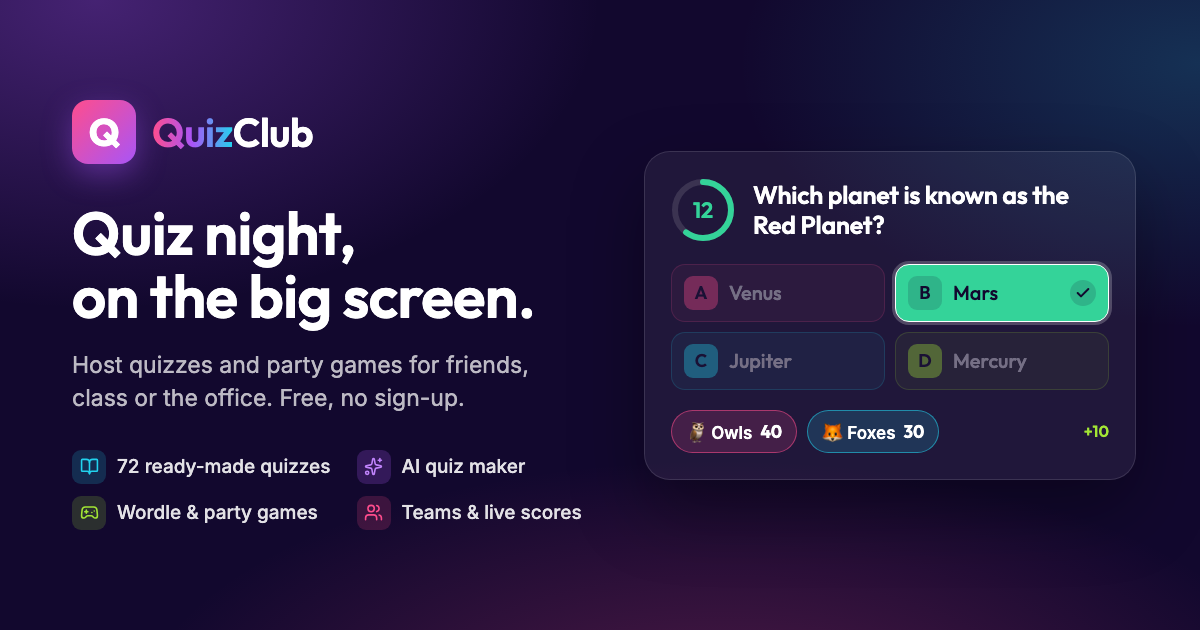
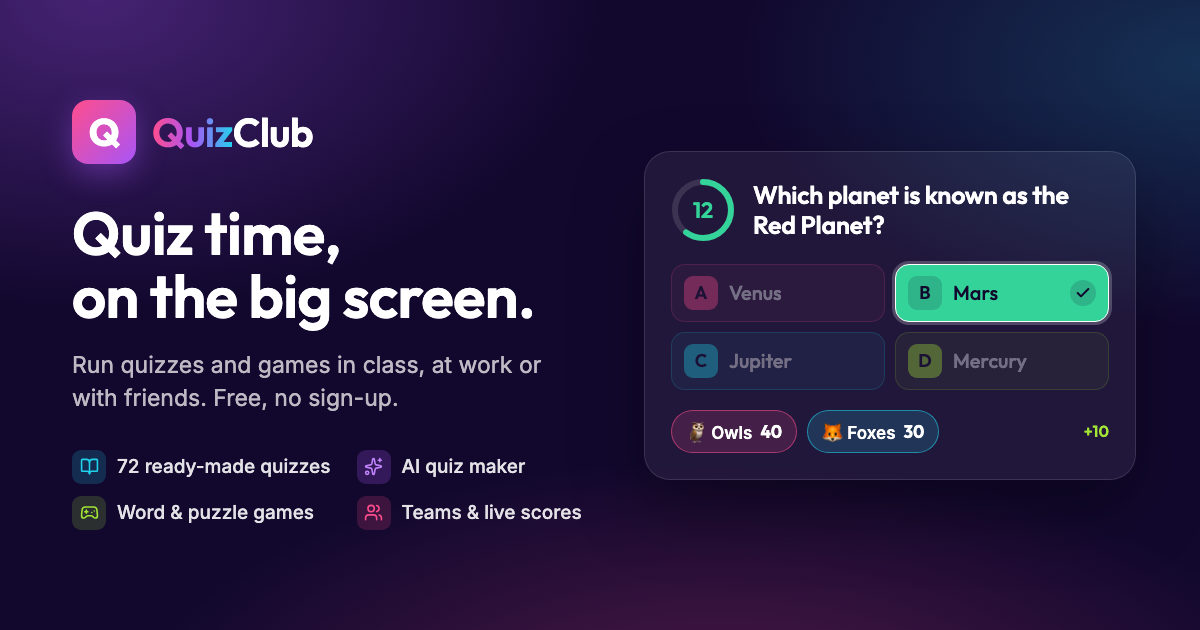
copy: "quiz time" instead of "quiz night", with classrooms first
The share card, page title, meta and manifest descriptions now read as
something for any time of day: "Quiz time, on the big screen." and "Run
quizzes and games in class, at work or with friends." The card's games
feature reads "Word & puzzle games".

Changed region(s): [[0.0617, 0.573, 0.4625, 0.6635], [0.1542, 0.3317, 0.3083, 0.4222], [0.1233, 0.7841, 0.2775, 0.8444]]

diff --git a/scripts/share-assets/card.html b/scripts/share-assets/card.html
@@ -53,12 +53,12 @@
 <body>
   <div class="left">
     <div class="brand"><div class="tile display">Q</div><div class="word display"><span class="grad">Quiz</span>Club</div></div>
-    <h1 class="display">Quiz night,<br />on the big screen.</h1>
-    <p class="sub">Host quizzes and party games for friends, class or the office. Free, no sign-up.</p>
+    <h1 class="display">Quiz time,<br />on the big screen.</h1>
+    <p class="sub">Run quizzes and games in class, at work or with friends. Free, no sign-up.</p>
     <div class="features">
       <div class="f"><span class="badge" style="background: color-mix(in srgb, var(--cyan) 18%, transparent); color: var(--cyan)"><svg viewBox="0 0 24 24"><path d="M12 7v14"/><path d="M3 18a1 1 0 0 1-1-1V4a1 1 0 0 1 1-1h5a4 4 0 0 1 4 4 4 4 0 0 1 4-4h5a1 1 0 0 1 1 1v13a1 1 0 0 1-1 1h-6a3 3 0 0 0-3 3 3 3 0 0 0-3-3z"/></svg></span>72 ready-made quizzes</div>
       <div class="f"><span class="badge" style="background: color-mix(in srgb, var(--purple) 22%, transparent); color: #c084fc"><svg viewBox="0 0 24 24"><path d="M11.017 2.814a1 1 0 0 1 1.966 0l1.051 5.558a2 2 0 0 0 1.594 1.594l5.558 1.051a1 1 0 0 1 0 1.966l-5.558 1.051a2 2 0 0 0-1.594 1.594l-1.051 5.558a1 1 0 0 1-1.966 0l-1.051-5.558a2 2 0 0 0-1.594-1.594l-5.558-1.051a1 1 0 0 1 0-1.966l5.558-1.051a2 2 0 0 0 1.594-1.594z"/><path d="M20 2v4"/><path d="M22 4h-4"/><circle cx="4" cy="20" r="2"/></svg></span>AI quiz maker</div>
-      <div class="f"><span class="badge" style="background: color-mix(in srgb, var(--lime) 18%, transparent); color: var(--lime)"><svg viewBox="0 0 24 24"><line x1="6" x2="10" y1="11" y2="11"/><line x1="8" x2="8" y1="9" y2="13"/><line x1="15" x2="15.01" y1="12" y2="12"/><line x1="18" x2="18.01" y1="10" y2="10"/><path d="M17.32 5H6.68a4 4 0 0 0-3.978 3.59c-.006.052-.01.101-.017.152C2.604 9.416 2 14.456 2 16a3 3 0 0 0 3 3c1 0 1.5-.5 2-1l1.414-1.414A2 2 0 0 1 9.828 16h4.344a2 2 0 0 1 1.414.586L17 18c.5.5 1 1 2 1a3 3 0 0 0 3-3c0-1.545-.604-6.584-.685-7.258-.007-.05-.011-.1-.017-.151A4 4 0 0 0 17.32 5z"/></svg></span>Wordle &amp; party games</div>
+      <div class="f"><span class="badge" style="background: color-mix(in srgb, var(--lime) 18%, transparent); color: var(--lime)"><svg viewBox="0 0 24 24"><line x1="6" x2="10" y1="11" y2="11"/><line x1="8" x2="8" y1="9" y2="13"/><line x1="15" x2="15.01" y1="12" y2="12"/><line x1="18" x2="18.01" y1="10" y2="10"/><path d="M17.32 5H6.68a4 4 0 0 0-3.978 3.59c-.006.052-.01.101-.017.152C2.604 9.416 2 14.456 2 16a3 3 0 0 0 3 3c1 0 1.5-.5 2-1l1.414-1.414A2 2 0 0 1 9.828 16h4.344a2 2 0 0 1 1.414.586L17 18c.5.5 1 1 2 1a3 3 0 0 0 3-3c0-1.545-.604-6.584-.685-7.258-.007-.05-.011-.1-.017-.151A4 4 0 0 0 17.32 5z"/></svg></span>Word &amp; puzzle games</div>
       <div class="f"><span class="badge" style="background: color-mix(in srgb, var(--pink) 18%, transparent); color: var(--pink)"><svg viewBox="0 0 24 24"><path d="M16 21v-2a4 4 0 0 0-4-4H6a4 4 0 0 0-4 4v2"/><path d="M16 3.128a4 4 0 0 1 0 7.744"/><path d="M22 21v-2a4 4 0 0 0-3-3.87"/><circle cx="9" cy="7" r="4"/></svg></span>Teams &amp; live scores</div>
     </div>
   </div>

diff --git a/index.html b/index.html
@@ -4,7 +4,7 @@
     <meta charset="UTF-8" />
     <meta name="viewport" content="width=device-width, initial-scale=1.0, viewport-fit=cover" />
     <meta name="theme-color" content="#12082e" />
-    <meta name="description" content="Host quiz nights and party games on the big screen: 72 ready-made quizzes, an AI quiz maker, Wordle, Hangman, teams and live scores. Free, no sign-up." />
+    <meta name="description" content="Run quizzes and games on the big screen in class, at work or with friends: 72 ready-made quizzes, an AI quiz maker, Wordle, Hangman, teams and live scores. Free, no sign-up." />
 
     <!-- Icons (sources and renderer in scripts/share-assets) -->
     <link rel="icon" type="image/svg+xml" href="/favicon.svg" />
@@ -16,8 +16,8 @@
     <!-- Link previews (WhatsApp, iMessage, Slack, X, LinkedIn…). Image URLs must be absolute. -->
     <meta property="og:type" content="website" />
     <meta property="og:site_name" content="QuizClub" />
-    <meta property="og:title" content="QuizClub — quiz night on the big screen" />
-    <meta property="og:description" content="Host quizzes and party games for friends, class or the office. 72 ready-made quizzes, an AI quiz maker, teams and live scores. Free, no sign-up." />
+    <meta property="og:title" content="QuizClub — quiz time on the big screen" />
+    <meta property="og:description" content="Run quizzes and games in class, at work or with friends. 72 ready-made quizzes, an AI quiz maker, teams and live scores. Free, no sign-up." />
     <meta property="og:url" content="https://quizclub-zeta.vercel.app/" />
     <meta property="og:image" content="https://quizclub-zeta.vercel.app/og-image.png" />
     <meta property="og:image:type" content="image/png" />
@@ -25,8 +25,8 @@
     <meta property="og:image:height" content="630" />
     <meta property="og:image:alt" content="QuizClub: a quiz question on screen with the right answer highlighted and two teams' scores." />
     <meta name="twitter:card" content="summary_large_image" />
-    <meta name="twitter:title" content="QuizClub — quiz night on the big screen" />
-    <meta name="twitter:description" content="Host quizzes and party games for friends, class or the office. Free, no sign-up." />
+    <meta name="twitter:title" content="QuizClub — quiz time on the big screen" />
+    <meta name="twitter:description" content="Run quizzes and games in class, at work or with friends. Free, no sign-up." />
     <meta name="twitter:image" content="https://quizclub-zeta.vercel.app/og-image.png" />
     <link rel="preconnect" href="https://fonts.googleapis.com" />
     <link rel="preconnect" href="https://fonts.gstatic.com" crossorigin />
@@ -34,7 +34,7 @@
       href="https://fonts.googleapis.com/css2?family=Outfit:wght@500;600;700&family=Inter:wght@400;500;600;700&display=swap"
       rel="stylesheet"
     />
-    <title>QuizClub — quiz night on the big screen</title>
+    <title>QuizClub — quiz time on the big screen</title>
   </head>
   <body>
     <div id="root"></div>

diff --git a/README.md b/README.md
@@ -1,6 +1,6 @@
 # 🎉 QuizClub
 
-A colourful quiz-night app with a clean, presentable look, built for the big screen. Present quizzes to a room, keep score for teams, and fill the gaps with party games.
+A colourful quiz app for classrooms, offices and parties, with a clean, presentable look, built for the big screen. Present quizzes to a room, keep score for teams, and fill the gaps with party games.
 
 ## Features
 
